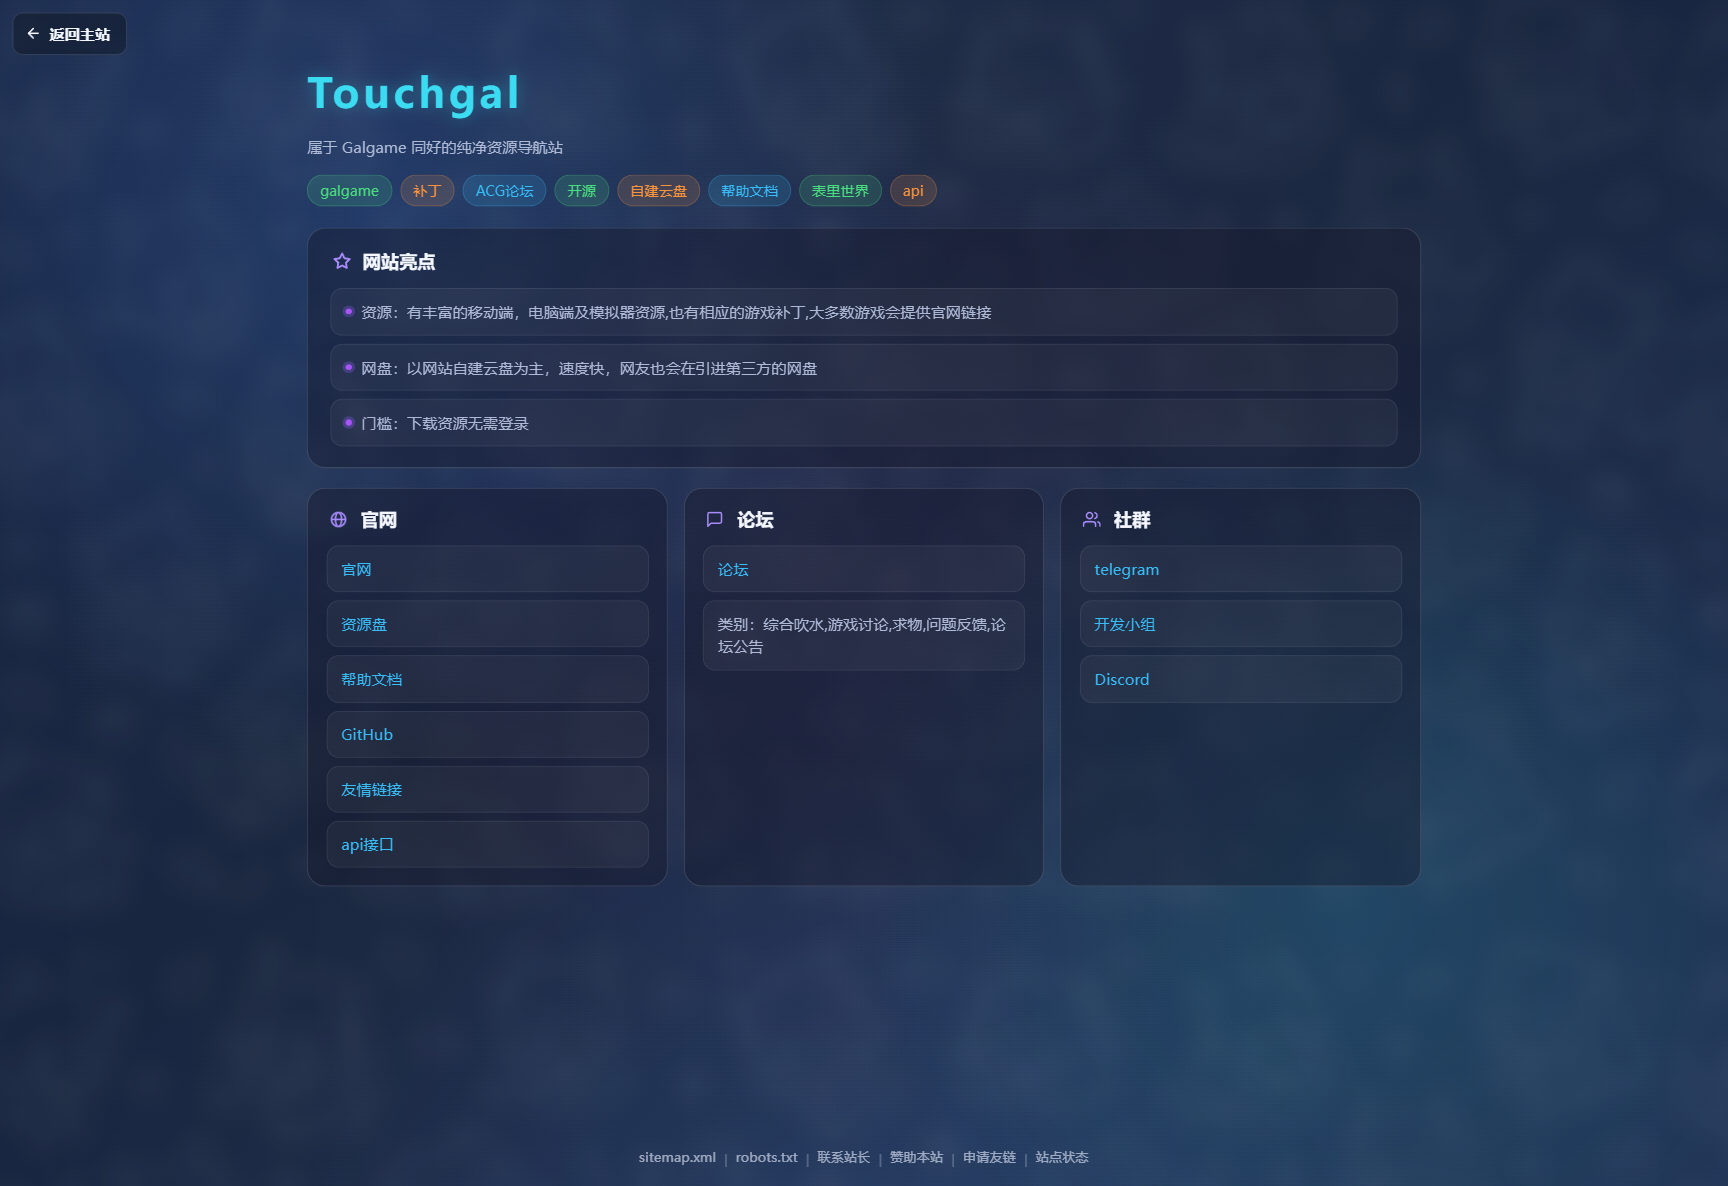
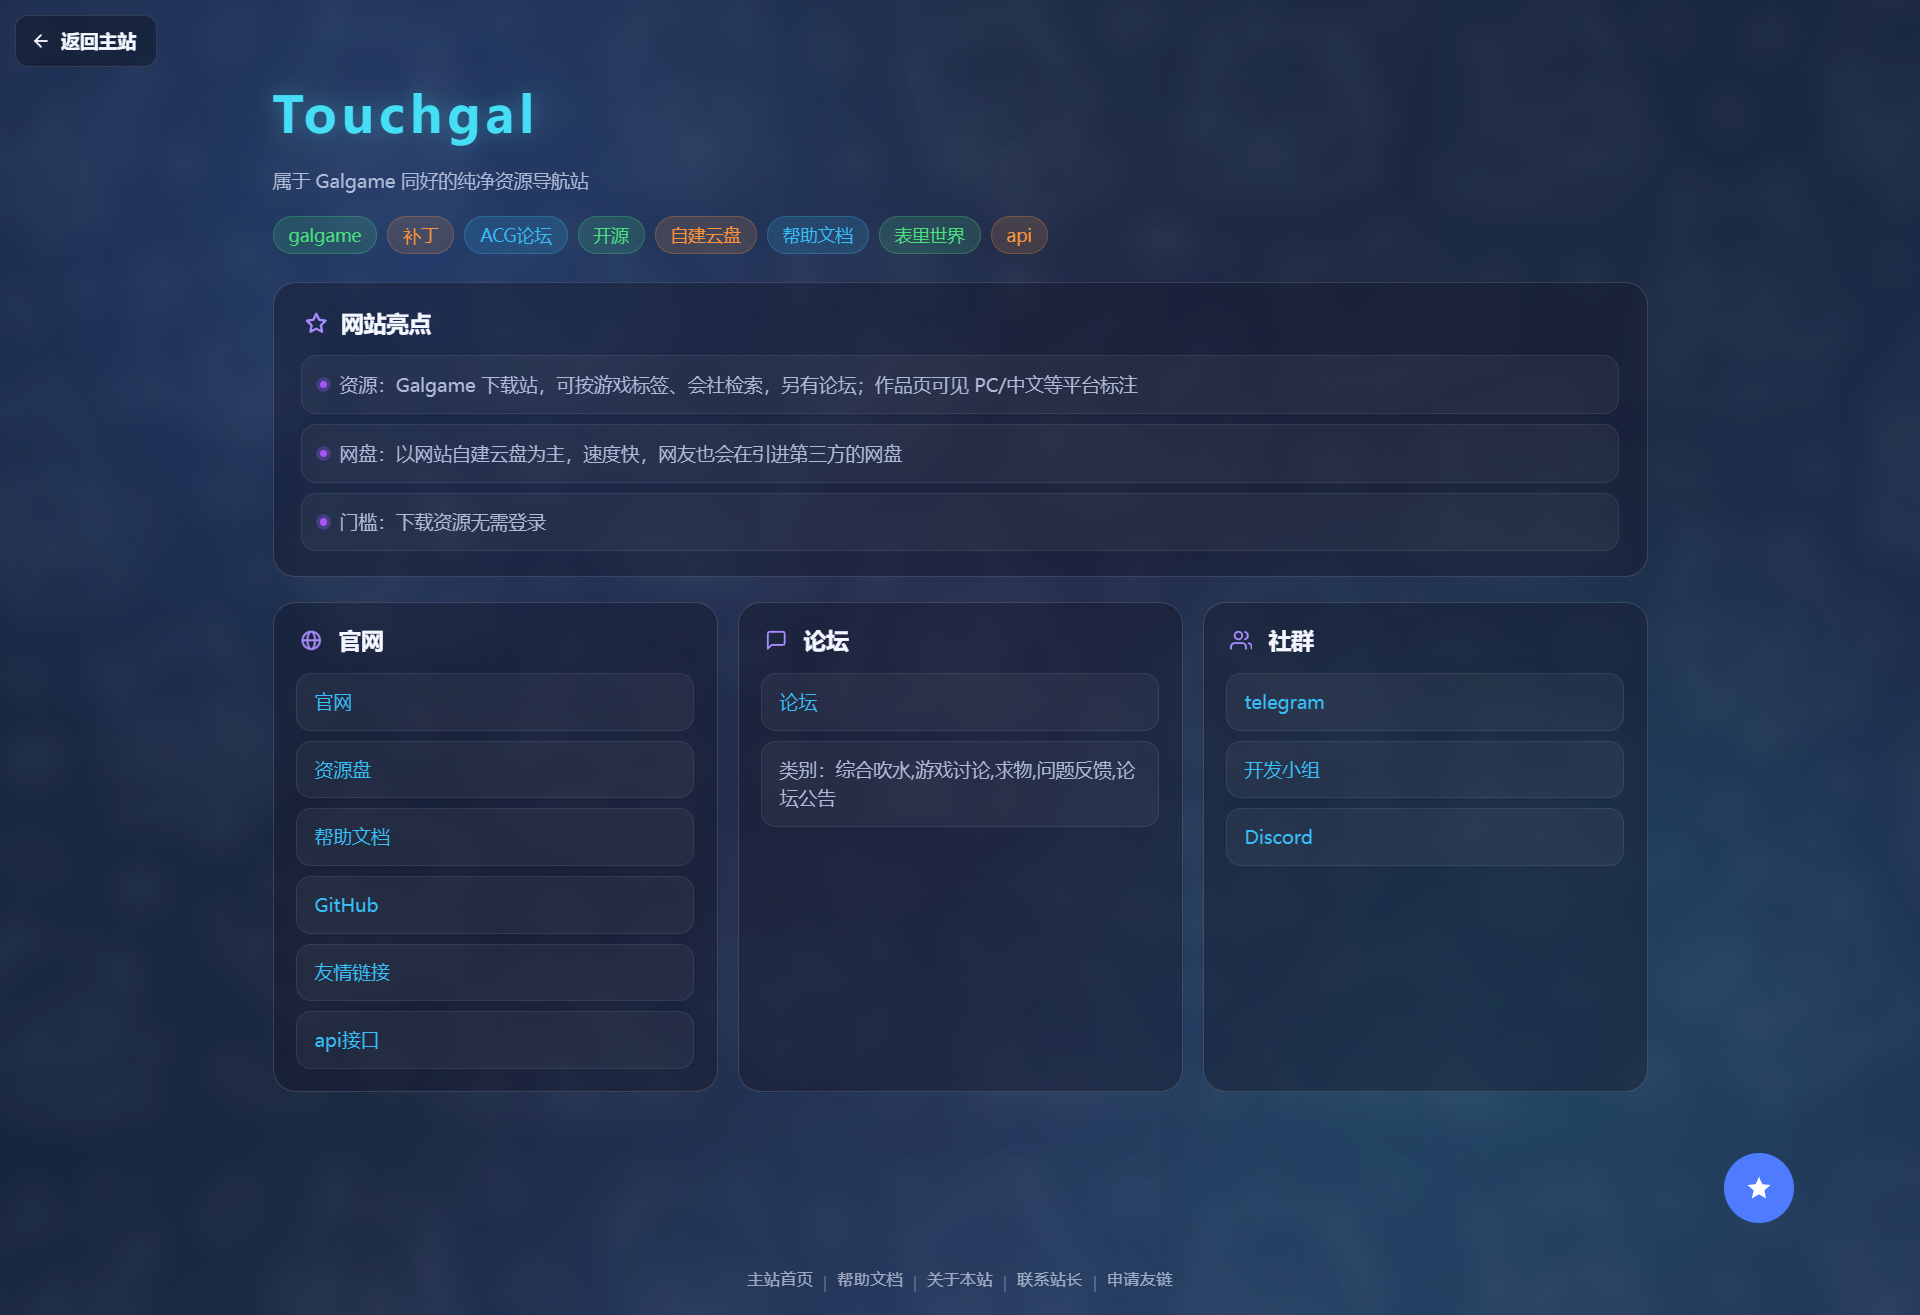
Replace index screenshot and add about image
Add assets/index.jpeg and assets/about.png, remove the old assets/index.png. Replace updated binary images (detail.png, help.png, websearch.png). Update README to reference index.jpeg and include an 'about' screenshot entry.

diff --git a/README.md b/README.md
@@ -19,7 +19,7 @@ GALNAVI 是面向 ACG 的导航与信息聚合站（[galnavi.top](https://galnav
 ## 页面截屏
 
 <table>
-  <tr><td><img src="https://raw.githubusercontent.com/argb6/gal-navigation/main/assets/index.png" alt="main"></td></tr>
+  <tr><td><img src="https://raw.githubusercontent.com/argb6/gal-navigation/main/assets/index.jpeg" alt="index"></td></tr>
   <tr><td align="center"><em>发布页</em></td></tr>
 </table>
 
@@ -36,6 +36,11 @@ GALNAVI 是面向 ACG 的导航与信息聚合站（[galnavi.top](https://galnav
 <table>
   <tr><td><img src="https://raw.githubusercontent.com/argb6/gal-navigation/main/assets/help.png" alt="help"></td></tr>
   <tr><td align="center"><em>帮助</em></td></tr>
+</table>
+
+<table>
+  <tr><td><img src="https://raw.githubusercontent.com/argb6/gal-navigation/main/assets/about.png" alt="about"></td></tr>
+  <tr><td align="center"><em>关于</em></td></tr>
 </table>
 
 ## 页面
